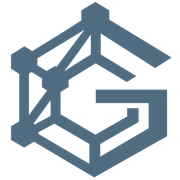
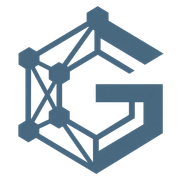
fix(web): restaura instalacao PWA Graalyst

Changed region(s): [[0.0556, 0.0, 0.9444, 1.0], [0.5556, 0.1667, 0.9722, 0.3889], [0.6944, 0.1667, 0.8333, 0.25]]

diff --git a/web/src/app/manifest.test.ts b/web/src/app/manifest.test.ts
@@ -1,0 +1,27 @@
+import { describe, expect, it } from "vitest";
+import manifest from "./manifest";
+
+describe("manifesto de instalação", () => {
+  it("declara uma instalação standalone com os ícones públicos da Graalyst", () => {
+    const resultado = manifest();
+
+    expect(resultado.display).toBe("standalone");
+    expect(resultado.start_url).toBe("/");
+    expect(resultado.icons).toEqual([
+      expect.objectContaining({
+        src: "/brand/graalyst-icon-192-v1.png",
+        sizes: "192x192",
+        type: "image/png",
+      }),
+      expect.objectContaining({
+        src: "/brand/graalyst-icon-512-v1.png",
+        sizes: "512x512",
+        type: "image/png",
+      }),
+    ]);
+  });
+
+  it("não inclui campos que quebram a rota de manifesto em produção", () => {
+    expect(manifest()).not.toHaveProperty("id");
+  });
+});

diff --git a/web/src/app/manifest.ts b/web/src/app/manifest.ts
@@ -7,7 +7,6 @@ import type { MetadataRoute } from "next";
  */
 export default function manifest(): MetadataRoute.Manifest {
   return {
-    id: "/",
     name: "Graalyst | Distribuição & Notas",
     short_name: "Graalyst NF",
     description: "Distribuição de produtos e emissão de notas fiscais",

diff --git a/docs/IDENTIDADE-PWA.md b/docs/IDENTIDADE-PWA.md
@@ -3,9 +3,10 @@
 ## Fonte da marca
 
 A marca Graalyst usa o símbolo de guindaste e caixa. A versão de aplicação é
-uma releitura limpa do arquivo visual original: fundo transparente, uma única
-cor azul-acinzentada e sem sombra, vinheta ou moldura. Ela é adequada para
-superfícies claras da interface e para tamanhos pequenos.
+uma releitura limpa do arquivo visual original: fundo transparente, azul
+acinzentado e sem sombra, vinheta ou moldura. A fonte aprovada é a variante de
+maior detalhe do símbolo (a variante indicada como **esquerda** pelo
+responsável); ela é a origem de todos os tamanhos abaixo.
 
 Os ativos publicados estão em `web/public/brand/`:
 
@@ -26,6 +27,23 @@ de marca com nomes versionados. Isso evita que o Chrome reaproveite o JPG ou
 favicons antigos depois do deploy. O `proxy.ts` deixa somente o manifesto,
 favicon e `brand/` públicos: o Chrome precisa buscá-los antes de existir uma
 sessão, mas as telas e dados administrativos continuam protegidos.
+
+### Diagnóstico da regressão de instalação — 06/09/2026
+
+Foram encontradas duas regressões no primeiro pacote de ícones:
+
+1. o manifest gerado pelo App Router ainda passava pelo `proxy` de autenticação
+   e era redirecionado para `/login` quando o Chrome tentava ler os requisitos
+   de instalação;
+2. o campo `id` no retorno de `manifest.ts` fazia a rota responder `500` em
+   execução de produção, embora a compilação TypeScript fosse bem-sucedida.
+
+O `id` foi removido e manifesto, favicon e diretório `brand/` foram excluídos
+do matcher de autenticação. A validação de produção local confirmou
+`GET /manifest.webmanifest` com `200`, MIME `application/manifest+json`,
+`display: standalone` e os ícones PNG de 192 e 512 px. Não foi necessário
+adicionar service worker: este Web não possui cache offline próprio, e o Chrome
+consegue instalar um site com manifesto válido.
 
 Não há service worker, Workbox ou registro de cache próprio neste projeto.
 Logo, não existe cache de aplicação a limpar; a atualização depende apenas do

diff --git a/docs/AI-CONTEXT.md b/docs/AI-CONTEXT.md
@@ -142,10 +142,13 @@ executa cada tarefa em um `BrowserContext` independente.
 
 - A marca confirmada do produto é **Graalyst**. Em 06/09/2026, a marca recebeu
   ativos próprios para favicon e instalação móvel: PNG transparente sem sombra,
-  ICO compatível e manifest explícito. Não há service worker nem cache próprio;
-  os nomes versionados de ativos e do manifest evitam reaproveitar o JPG/ícone
-  antigo. Ver `IDENTIDADE-PWA.md`. Não confundir a marca com nomes de emitentes
-  presentes em dados ou testes históricos.
+  ICO compatível e manifest explícito. O primeiro pacote tinha duas regressões
+  de instalação: manifest protegido pelo login e resposta 500 por `id` no
+  `manifest.ts`; ambos foram corrigidos e validados localmente com `200` e MIME
+  correto. A variante aprovada é a mais detalhada, indicada como "esquerda".
+  Não há service worker nem cache próprio; ver `IDENTIDADE-PWA.md`. Não
+  confundir a marca com nomes de emitentes presentes em dados ou testes
+  históricos.
 
 - Web: cadastros, distribuição por lote, tarefas, notas, roteiro de entrega e
   relatórios operacionais; interface responsiva e fluxo diário reduzido.

diff --git a/docs/HANDOFF.md b/docs/HANDOFF.md
@@ -318,6 +318,12 @@
   fonte histórica e não deve voltar a ser referenciado. Ver
   `IDENTIDADE-PWA.md`. Nomes semelhantes em fixtures fiscais não devem ser
   alterados automaticamente, pois podem representar emitentes.
+- Correção PWA de 06/09: o pacote inicial respondia incorretamente ao Chrome
+  antes do login (redirect do manifesto) e `manifest.ts` retornava 500 em
+  produção por causa do campo `id`. O manifest, favicon e `brand/` são os
+  únicos recursos liberados antes da sessão; remover `id` restaurou a resposta
+  200 com MIME de manifesto. A variante visual aprovada é a detalhada indicada
+  como **esquerda**; não substituir pela simplificada sem nova decisão.
 
 > Esta seção substitui afirmações de estado das continuações históricas abaixo.
 > O restante do arquivo preserva decisões e reconhecimentos anteriores, mas
